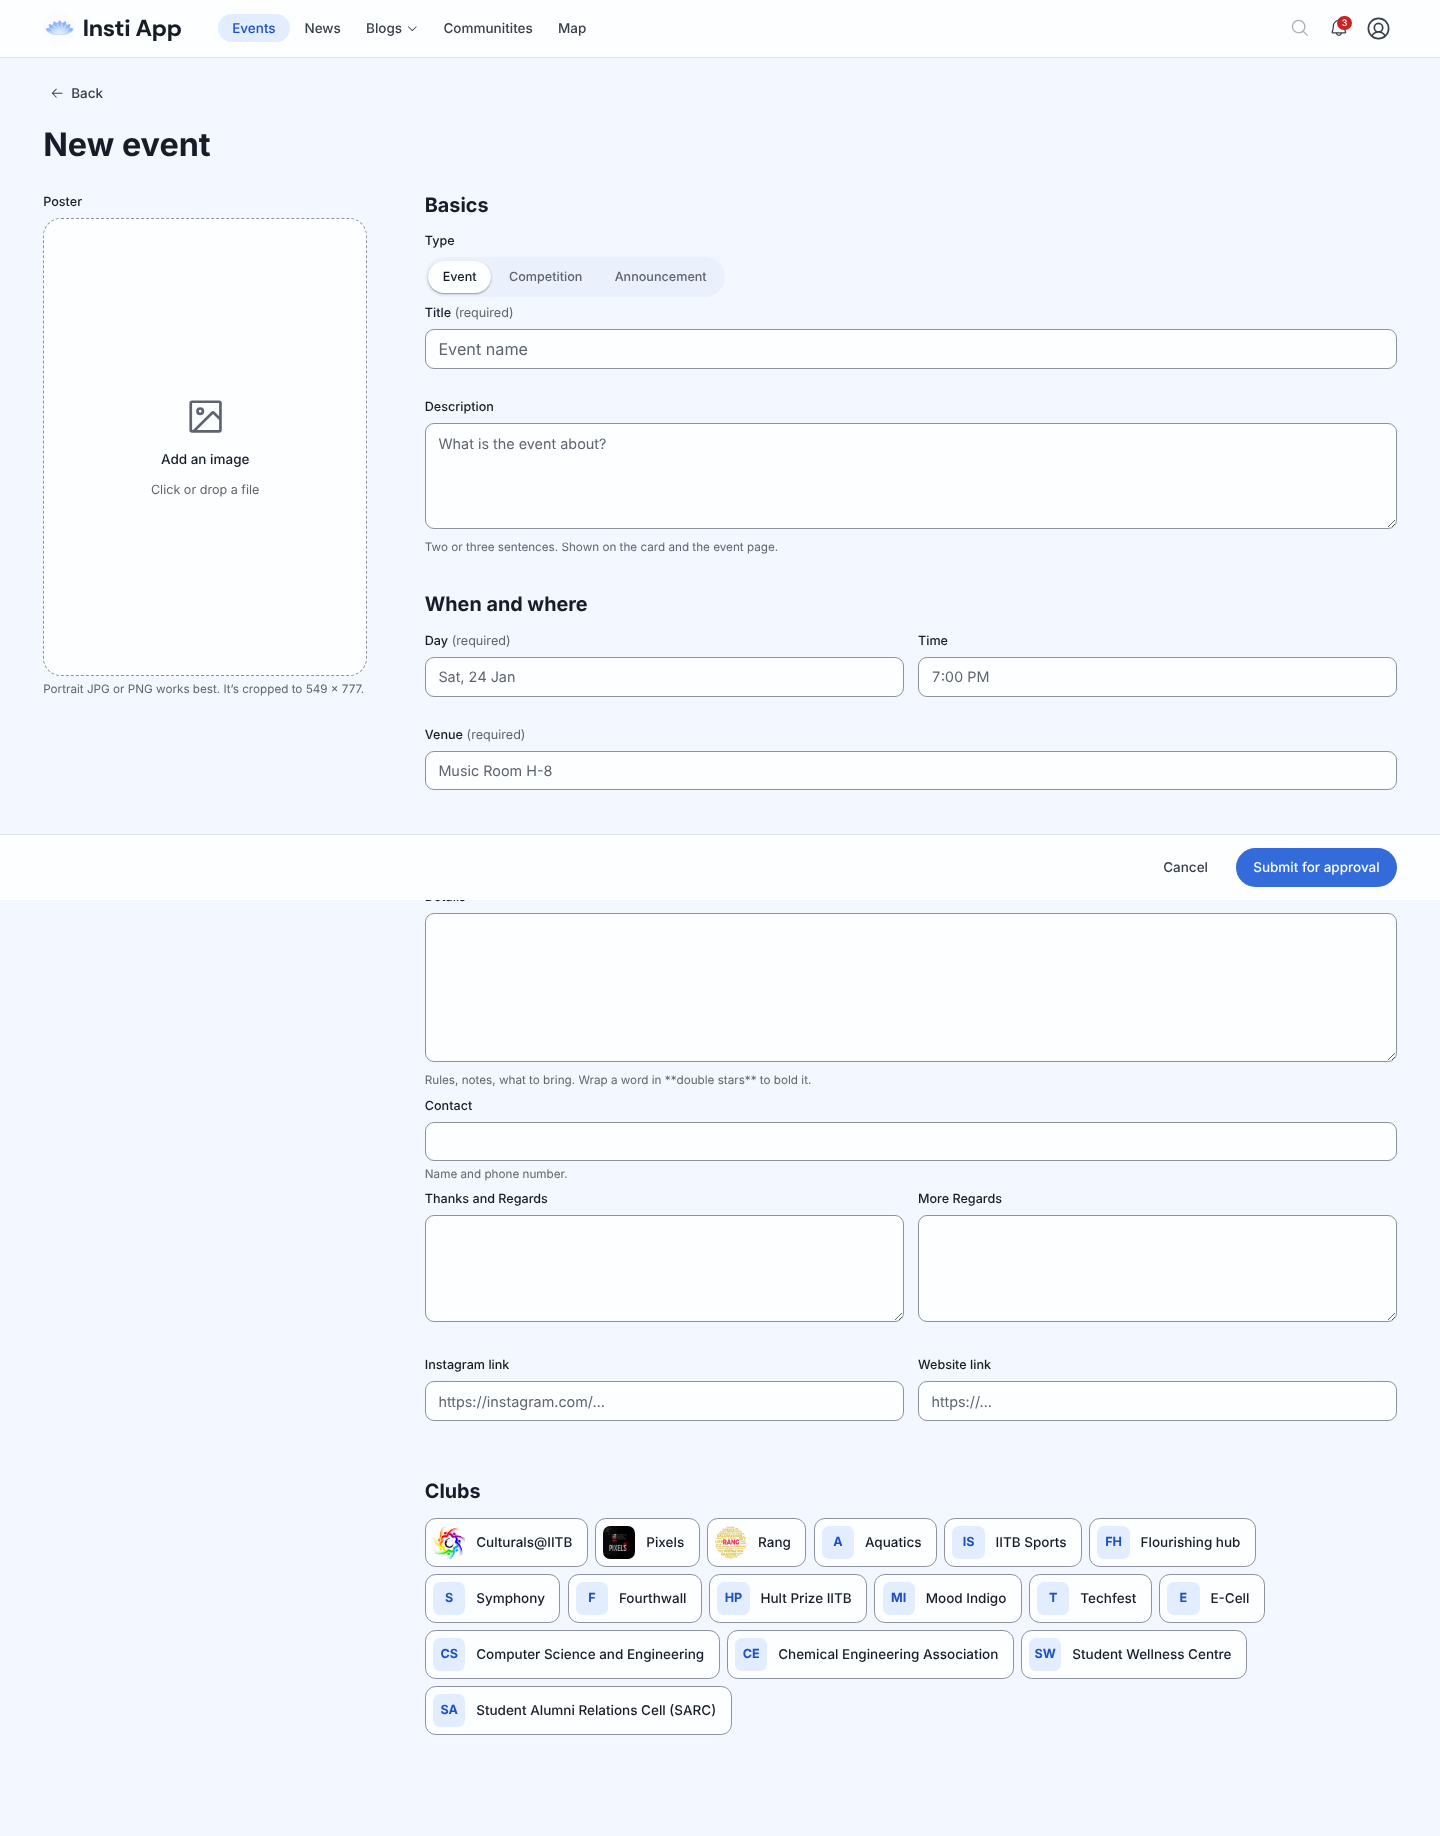
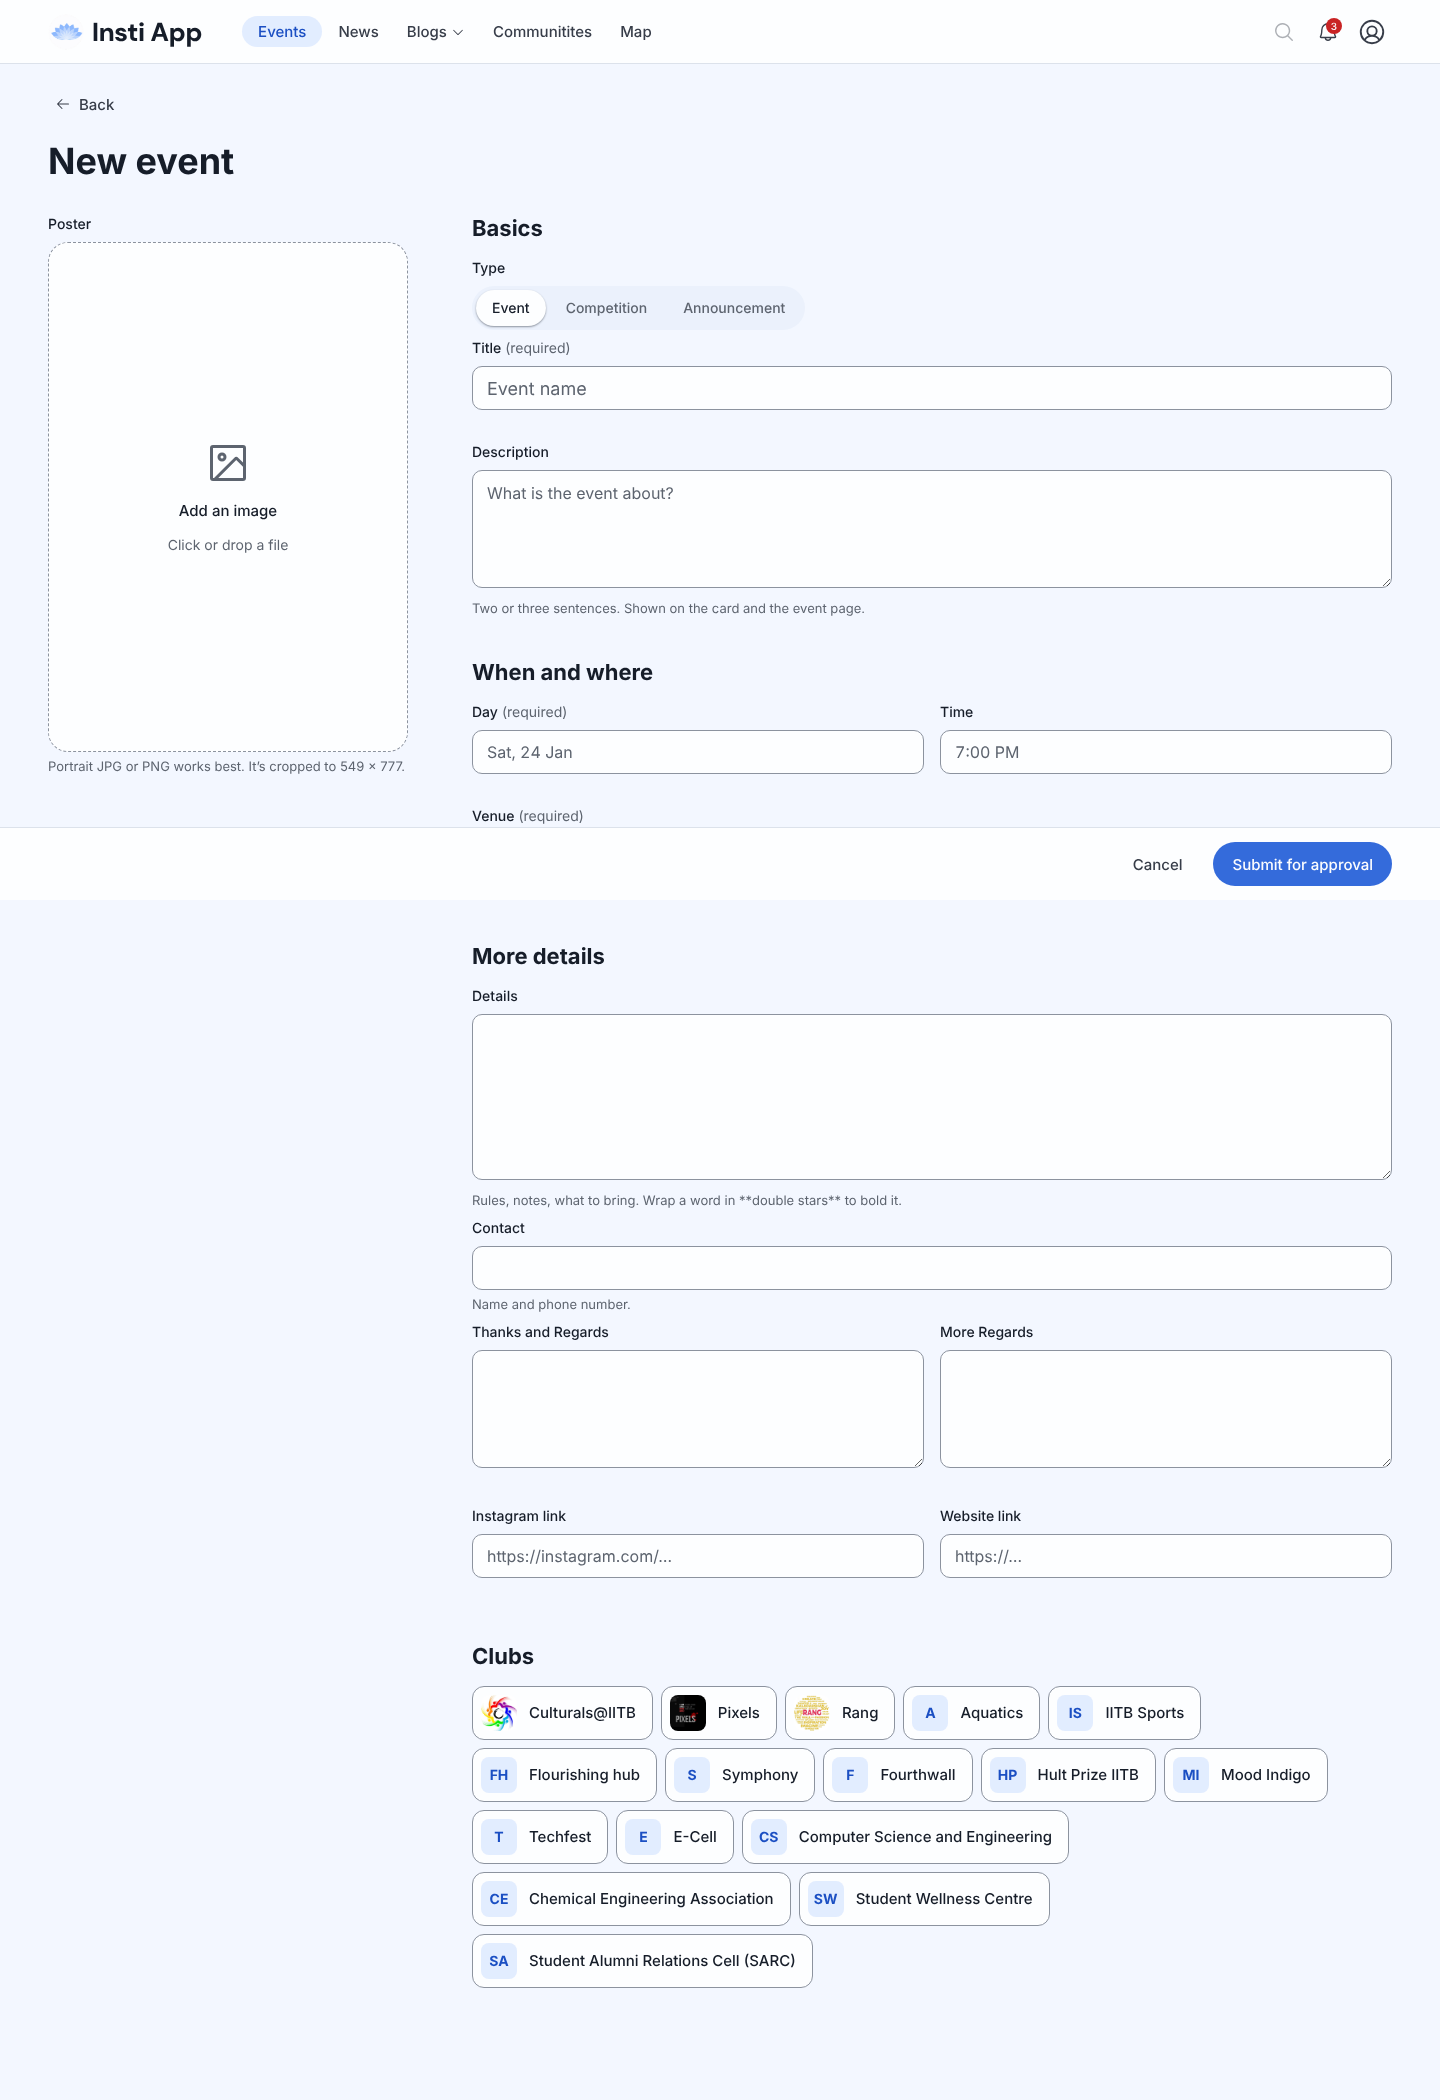
Revert 90% desktop zoom; keep the fixed uniform gutters
Claude-Session: https://claude.ai/code/session_01UGSq7D7wJQbmhDDKoKNt35

diff --git a/src/styles/tokens.css b/src/styles/tokens.css
@@ -47,10 +47,6 @@
   --space-6: 24px; --space-8: 32px; --space-10: 40px; --space-12: 48px; --space-16: 64px;
   /* One fixed side margin per breakpoint, shared by every page, bar and footer. */
   --gutter: 16px;
-  /* Desktop renders at 90% (like browser zoom 90%); see index.css. */
-  --zoom: 1;
-  /* Full viewport height in zoomed CSS px — zoom shrinks dvh along with everything else. */
-  --vh-full: calc(100dvh / var(--zoom));
 
   --radius-input: 10px; --radius-tile: 12px; --radius-card: 16px; --radius-panel: 20px; --radius-pill: 999px;
 
@@ -65,4 +61,4 @@
   --topbar-h: 64px;
 }
 @media (min-width: 640px) { :root { --gutter: 32px; } }
-@media (min-width: 1024px) { :root { --gutter: 48px; --zoom: 0.9; } }
+@media (min-width: 1024px) { :root { --gutter: 48px; } }

diff --git a/src/pages/AuthPages.tsx b/src/pages/AuthPages.tsx
@@ -10,7 +10,7 @@ import { A } from '../lib/assets'
  */
 function Stage({ children }: { children: ReactNode }) {
   return (
-    <div className="relative grid min-h-[var(--vh-full)] place-items-center overflow-hidden bg-paper px-gutter py-12">
+    <div className="relative grid min-h-dvh place-items-center overflow-hidden bg-paper px-gutter py-12">
       <div className="pointer-events-none absolute bottom-0 left-0 h-[639px] w-[544px] origin-bottom-left scale-[var(--sq)]" aria-hidden>
         <img alt="" src={A.squiggleLeft} className="absolute left-0 top-0 h-[580.309px] w-[730.454px] max-w-none origin-top-left" style={{ transform: 'matrix(-0.969, -0.247, -0.247, 0.969, 544.291, 180.735)' }} />
       </div>

diff --git a/qa/shots.spec.ts b/qa/shots.spec.ts
@@ -34,8 +34,6 @@ for (const s of SHOTS) {
     await page.evaluate(() => document.fonts.ready)
     if (s.setup === 'reject') await page.getByTestId('page-reject').click()
     await page.waitForTimeout(400)
-    // CSS zoom (90% on desktop) inflates Playwright's full-page size; clip to the real scroll extent.
-    const size = await page.evaluate(() => ({ width: document.documentElement.scrollWidth, height: document.documentElement.scrollHeight }))
-    await page.screenshot({ path: `qa/shots/${s.name}.png`, fullPage: !!s.full, clip: s.full ? { x: 0, y: 0, ...size } : undefined })
+    await page.screenshot({ path: `qa/shots/${s.name}.png`, fullPage: !!s.full })
   })
 }

diff --git a/src/pages/HomePage.tsx b/src/pages/HomePage.tsx
@@ -58,7 +58,7 @@ export function HomePage() {
     <>
       <TopBar />
       {reviewing ? (
-        <main className="flex h-[calc(var(--vh-full)-var(--topbar-h))] flex-col">
+        <main className="flex h-[calc(100dvh-var(--topbar-h))] flex-col">
           {header}
           <div className="flex min-h-0 w-full flex-1 flex-col lg:px-gutter">
             <ReviewWorkspace role={tab === 'status' ? 'gsha' : 'gsec'} />

diff --git a/src/index.css b/src/index.css
@@ -11,7 +11,6 @@
 
 @layer base {
   html, body { overflow-x: clip; }
-  html { zoom: var(--zoom); }
   body {
     background: var(--color-paper);
     color: var(--color-ink-2);

diff --git a/design.md b/design.md
@@ -63,7 +63,7 @@ one `--color-rule` border; a soft shadow only on hover for clickable cards.
 
 ## Spacing
 4-point named scale (`--space-1` 4px … `--space-16` 64px) in `src/styles/tokens.css`.
-Page gutter: fixed 16px (phone) · 32px (≥640) · 48px (≥1024), the same on every page, bar and footer; content runs full width between them. Desktop (≥1024) renders at 90% via `zoom` on `html` — use `var(--vh-full)`, not `100dvh`, for full-height layouts.
+Page gutter: fixed 16px (phone) · 32px (≥640) · 48px (≥1024), the same on every page, bar and footer; content runs full width between them.
 
 ## Radii
 card 16 · panel 20 · input 10 · tile 12 · pill 999. Buttons are pills (tone kept).
